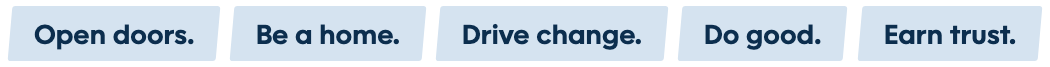
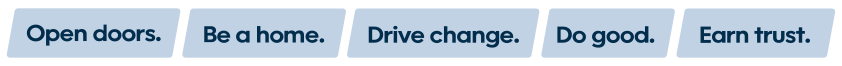
Brand toggle (Vanderbilt / Clayton Homes / Clayton Tech); official Vanderbilt assets
- Brand radio swaps the logo, the website link, and the NMLS default
  (on for Vanderbilt, off for the Clayton brands; still overridable).
- Vanderbilt wordmark and value-badge strip replaced with the official
  brand PNGs (939×334, 842×66). Clayton Tech is the official PNG
  (1096×476). Clayton Homes is rendered from the vmf.com footer SVG in
  brand blue until a larger official export is available.

diff --git a/index.html b/index.html
@@ -23,6 +23,10 @@
   input { width: 100%; font: inherit; font-size: 15px; padding: 8px 10px; border: 1px solid var(--border); border-radius: 6px; color: var(--ink); background: #fff; }
   input:focus { outline: 2px solid var(--blue); outline-offset: 1px; border-color: var(--blue); }
   .hint { font-size: 12px; color: var(--muted); margin: 4px 0 0; }
+  .brand { border: 1px solid var(--rule); border-radius: 8px; padding: 8px 12px 10px; margin: 4px 0 8px; display: flex; gap: 16px; flex-wrap: wrap; }
+  .brand legend { font-size: 12px; font-weight: 600; color: var(--muted); padding: 0 4px; }
+  .radio { display: flex; align-items: center; gap: 6px; margin: 0; font-weight: 500; cursor: pointer; }
+  .radio input { width: auto; margin: 0; accent-color: var(--blue); }
   .check { display: flex; align-items: center; gap: 8px; margin-top: 16px; cursor: pointer; }
   .check input { width: auto; margin: 0; accent-color: var(--blue); }
   #nmlsFields.off { display: none; }
@@ -51,6 +55,12 @@
     <h1>Email signature</h1>
     <p class="sub">Fill this in, then copy or download. Don’t edit the result inside Outlook — come back here and regenerate it.</p>
     <form id="form" autocomplete="off">
+      <fieldset class="brand">
+        <legend>Brand</legend>
+        <label class="radio"><input type="radio" name="brand" value="vanderbilt" checked> Vanderbilt Mortgage</label>
+        <label class="radio"><input type="radio" name="brand" value="clayton"> Clayton Homes</label>
+        <label class="radio"><input type="radio" name="brand" value="claytonTech"> Clayton Tech</label>
+      </fieldset>
       <label for="name">Full name</label>
       <input id="name" name="name" value="First Last">
       <label for="title">Job title</label>
@@ -62,7 +72,7 @@
         <div><label for="extension">Ext.</label><input id="extension" name="extension" value="0000"></div>
       </div>
       <label class="check"><input type="checkbox" id="showNmls" name="showNmls" checked> Licensed (show NMLS #s)</label>
-      <p class="hint" style="margin-top:2px">Off = no NMLS lines at all, including the company NMLS #1561 line. Only licensed roles need them.</p>
+      <p class="hint" style="margin-top:2px">Off = no NMLS lines at all, including the company NMLS #1561 line. Only licensed Vanderbilt roles need them — defaults on for Vanderbilt, off for Clayton, but either brand can use either.</p>
       <div id="nmlsFields">
         <label for="nmls">Individual NMLS #</label>
         <input id="nmls" name="nmls" value="000000">
@@ -114,13 +124,19 @@
 const BLUE = '#0071C8', FONT = 'Arial, Helvetica, sans-serif', RULE = '#91A6BA';
 // Paths are relative to the page's own directory so the tool works at a domain
 // root AND under a subpath (e.g. GitHub Pages' /email-signature/).
-const LOGO = { path: 'assets/vanderbilt-mortgage-logo.png', w: 150, h: 54 };   // 600×216 @2x
-const BADGES = { path: 'assets/value-badges.png', w: 525, h: 34 };             // 1050×67 @2x
+const BRANDS = {
+  vanderbilt: { logo: { path: 'assets/vanderbilt-mortgage-logo.png', w: 150, h: 53 }, alt: 'Vanderbilt Mortgage', site: 'vmf.com', nmlsDefault: true },   // official PNG 939×334
+  clayton:    { logo: { path: 'assets/clayton-homes-logo.png', w: 150, h: 52 }, alt: 'Clayton Homes', site: 'claytonhomes.com', nmlsDefault: false },  // rendered from SVG, 600×209 — awaiting official PNG
+  claytonTech: { logo: { path: 'assets/clayton-tech-logo.png', w: 150, h: 65 }, alt: 'Clayton Tech', site: 'claytonhomes.com', nmlsDefault: false },    // official PNG 1096×476
+};
+const BADGES = { path: 'assets/value-badges.png', w: 525, h: 41 };             // official PNG 842×66
 
 const esc = s => s.replace(/&/g, '&amp;').replace(/</g, '&lt;').replace(/>/g, '&gt;').replace(/"/g, '&quot;');
 const tel = s => s.replace(/[^\d+]/g, '');
 
 function buildSignature(f, base) {
+  const brand = BRANDS[f.brand] || BRANDS.vanderbilt;
+  const LOGO = brand.logo;
   const cell = (pt, lh, extra = '') =>
     `font-family:${FONT};font-size:${pt}pt;line-height:${lh}pt;mso-line-height-rule:exactly;color:${BLUE};${extra}`;
   const line = (text, extra = '') => `<tr><td style="${cell(11, 15, extra)}">${text}</td></tr>`;
@@ -138,7 +154,7 @@ function buildSignature(f, base) {
   <tr><td style="padding:0;">
     <table cellpadding="0" cellspacing="0" border="0" role="presentation" style="border-collapse:collapse;">
       <tr>
-        <td width="${LOGO_CELL}" align="right" valign="middle" style="width:${LOGO_CELL}px;padding:0 18pt 0 0;text-align:right;">${img(LOGO, 'Vanderbilt Mortgage', 'margin-left:auto;')}</td>
+        <td width="${LOGO_CELL}" align="right" valign="middle" style="width:${LOGO_CELL}px;padding:0 18pt 0 0;text-align:right;">${img(LOGO, brand.alt, 'margin-left:auto;')}</td>
         <td valign="middle" style="padding:0 0 0 18pt;border-left:1px solid ${RULE};">
           <table cellpadding="0" cellspacing="0" border="0" role="presentation" style="border-collapse:collapse;">
             ${[
@@ -146,7 +162,7 @@ function buildSignature(f, base) {
               f.title && line(esc(f.title)),
               f.department && line(esc(f.department)),
               phone && line(`<a href="${phoneHref}" style="color:${BLUE};text-decoration:none;">${phone}</a>`),
-              line(`<a href="https://www.vmf.com" style="color:${BLUE};font-weight:bold;text-decoration:underline;">vmf.com</a>`, 'padding-top:8pt;'),
+              line(`<a href="https://www.${brand.site}" style="color:${BLUE};font-weight:bold;text-decoration:underline;">${brand.site}</a>`, 'padding-top:8pt;'),
             ].filter(Boolean).join('\n            ')}
           </table>
         </td>
@@ -199,11 +215,14 @@ function outputHtml() {
 function toast(msg) { toastEl.textContent = msg; toastEl.classList.add('show'); setTimeout(() => toastEl.classList.remove('show'), 2200); }
 
 form.addEventListener('input', render);
+// Switching brand resets the NMLS toggle to that brand's default (Vanderbilt on, Clayton off);
+// the user can still flip it afterwards.
+for (const r of form.elements.brand) r.addEventListener('change', () => { form.elements.showNmls.checked = BRANDS[r.value].nmlsDefault; render(); });
 
 document.getElementById('copy').addEventListener('click', async () => {
   const f = fields();
   const html = outputHtml();
-  const plain = [f.name, f.title, f.department, f.phone, 'vmf.com'].filter(Boolean).join('\n');
+  const plain = [f.name, f.title, f.department, f.phone, (BRANDS[f.brand] || BRANDS.vanderbilt).site].filter(Boolean).join('\n');
   try {
     // text/html on the clipboard is what makes Outlook paste a rendered table instead of code.
     await navigator.clipboard.write([new ClipboardItem({
@@ -234,7 +253,8 @@ try {
   const saved = JSON.parse(localStorage.getItem(KEY) || 'null');
   if (saved) for (const [k, v] of Object.entries(saved)) {
     const el = form.elements[k]; if (!el) continue;
-    if (el.type === 'checkbox') el.checked = !!v; else el.value = v;
+    if (el.type === 'checkbox') el.checked = !!v;
+    else el.value = v;
   }
 } catch {}
 render();

diff --git a/README.md b/README.md
@@ -41,14 +41,21 @@ survives a paste *and* a later edit:
 - link color and `text-decoration` set on each `<a>`
 
 The design's skewed value badges can't be drawn this way, so they ship as one
-PNG (`assets/value-badges.png`, rendered in CinaGEO at 2x). The wordmark is
-`assets/vanderbilt-mortgage-logo.png`, from the SVG in the ui-library repo.
+PNG (`assets/value-badges.png`, the official brand asset). The Vanderbilt wordmark
+is the official PNG too; the Clayton one is rendered from the ui-library SVG for now.
 
 ## Files
 
 - `index.html` — the whole tool (markup, styles, generator)
-- `assets/vanderbilt-mortgage-logo.png` — 600×216, displayed at 150×54
-- `assets/value-badges.png` — 1050×67, displayed at 525×34
+- `assets/vanderbilt-mortgage-logo.png` — official brand PNG 939×334, displayed at 150×53
+- `assets/clayton-homes-logo.png` — 600×209, displayed at 150×52 (rendered from the
+  ui-library footer SVG in brand blue; replace with the official PNG when available)
+- `assets/clayton-tech-logo.png` — official brand PNG 1096×476, displayed at 150×65
+- `assets/value-badges.png` — official brand PNG 842×66, displayed at 525×41
+
+Brand toggle: Vanderbilt Mortgage (default), Clayton Homes, or Clayton Tech. It swaps
+the logo and the website link, and sets the "Licensed (show NMLS #s)" default — on for
+Vanderbilt, off for the Clayton brands — which can still be overridden either way.
 
 ## Install instructions (for the people using it)
 
